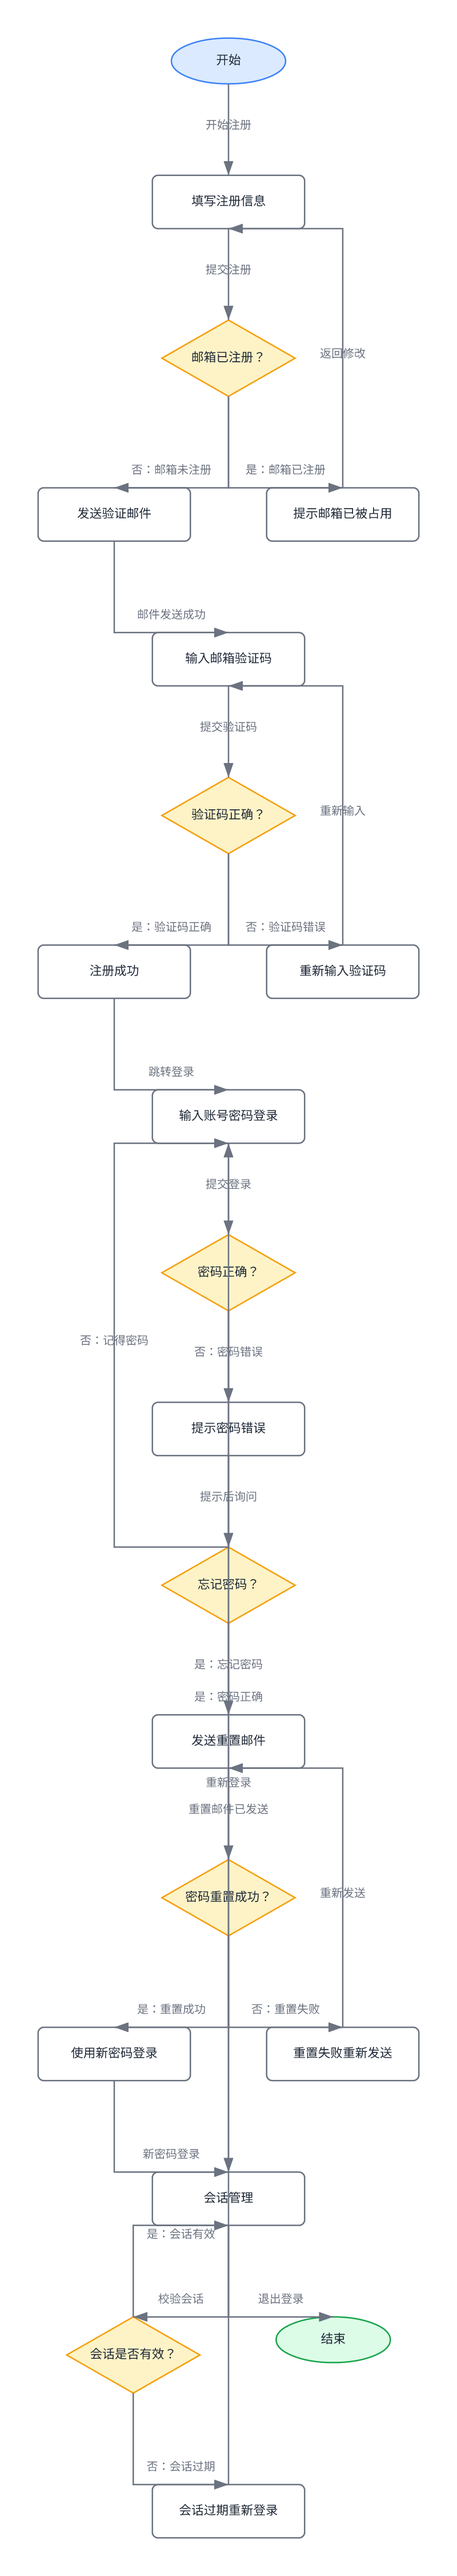
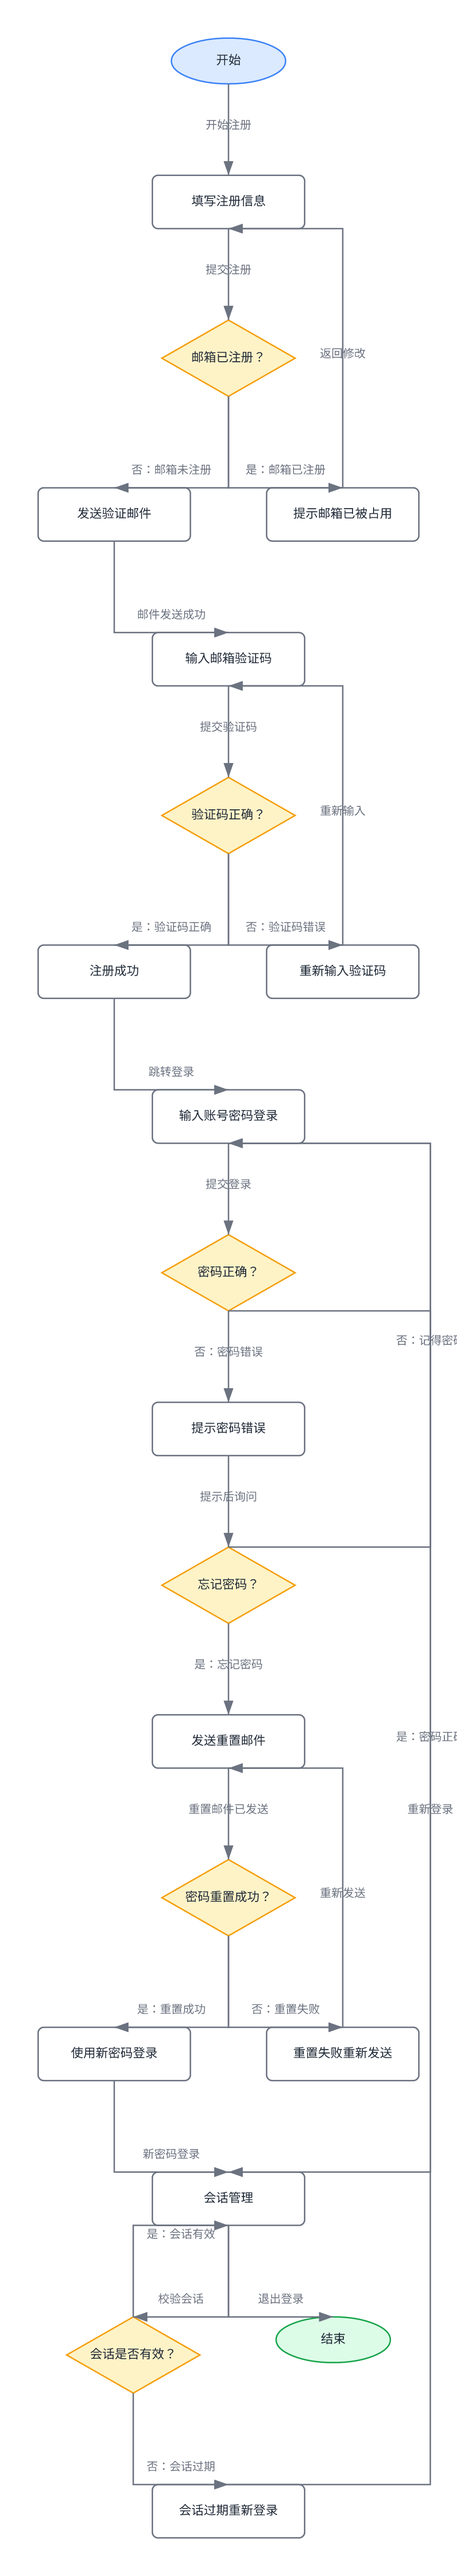
fix(render): 消除第三方节点穿越+扩大矩形路由通道/行候选
- 候选评分新增 crossHit：路径切穿第三人节点/分组 = -5e5（比贴边更严重），
  避免'出口面切换'把贴边换成更糟的穿节点。
- pathClearanceInterior 对贴自家节点边框的腿强制归零，不再给它钳到 1000
  而恒压过真正绕行的干净路径。
- routeRectilinear 的通道/行候选扩到每个障碍物左右/上下壁之外，使下落列
  能绕开处在路径上的中间节点。

效果：第三方节点穿越清零（flowchart-auth 2→0、microservices 1→0、通用
无新增），架构图保持 0 贴边。测试全绿。

diff --git a/packages/render/src/index.ts b/packages/render/src/index.ts
@@ -1018,15 +1018,19 @@ function renderGeneral(doc: LgdlDocument, layout: LayoutResult, mode: 'default' 
     const candidateB = buildEdgePath(pts, srcNode, dstNode, srcKind, dstKind, 'local', routeBoxes, scoreBoxes);
     const score = (p: { x: number; y: number }[]): number => {
       const ownHit = pathHitsOwnBody(p, srcNode, dstNode) ? -1e6 : 0;
-      // `pathClearanceInterior` is Infinity for a two-point path (no interior legs
-      // to score); clamp so bends / border-ride penalties below actually matter.
-      const clear = Math.min(pathClearanceInterior(p, scoreBoxes), 1000);
-      const bends = (p.length - 2) * 20;
-      // A leg riding flush along the edge's OWN node border is the "贴边" defect:
-      // heavily penalize so the perpendicular-exit alternative (local face) wins.
-      // `pathBorderRides` already weights source rides (400) over dest rides (150).
+      // A path that slices through a THIRD-PARTY node/group is worse than a mild
+      // border ride: penalize it heavily so the border-riding alternative wins
+      // rather than a crossing one.
+      const crossHit = pathCrosses(p, routeBoxes) ? -5e5 : 0;
+      // `pathClearanceInterior` is Infinity for a path with no scoreable interior
+      // leg (a plain 2/3-point elbow), which would let a border-riding path clamp
+      // to 1000 and always win. So: if any leg hugs/rides its OWN node border,
+      // the clearance contribution is forced to 0 (a border-riding leg is, by
+      // definition, ~0px from a wall), so it can't out-score a clean path.
       const rides = pathBorderRides(p, srcNode, dstNode);
-      return ownHit + clear - bends - rides;
+      const clear = rides > 0 ? 0 : Math.min(pathClearanceInterior(p, scoreBoxes), 1000);
+      const bends = (p.length - 2) * 20;
+      return ownHit + crossHit + clear - bends - rides;
     };
     const ortho = score(candidateB) > score(candidateA) ? candidateB : candidateA;
     const d = ortho
@@ -1268,9 +1272,19 @@ function routeRectilinear(
   const midY = Math.round((src.y + dst.y) / 2);
   for (const c of [midX, src.x, dst.x]) channels.push(c);
   for (let k = 20; k <= 120; k += 20) channels.push(midX - k, midX + k, src.x - k, src.x + k, dst.x - k, dst.x + k);
+  // Also expose columns just outside every obstacle's left/right walls so the
+  // route can dodge a blocker that sits in the drop's path (e.g. app->mq would
+  // otherwise keep dropping on a column that slices a third-party node).
+  for (const b of boxes) {
+    channels.push(Math.round(b.x - 12), Math.round(b.x + b.w + 12));
+  }
   const rows: number[] = [];
   for (const c of [midY, src.y, dst.y]) rows.push(c);
   for (let k = 20; k <= 120; k += 20) rows.push(midY - k, midY + k, src.y - k, src.y + k, dst.y - k, dst.y + k);
+  // rows just outside every obstacle's top/bottom walls
+  for (const b of boxes) {
+    rows.push(Math.round(b.y - 12), Math.round(b.y + b.h + 12));
+  }
 
   const candidates: { x: number; y: number }[][] = [];
   candidates.push([src, dst]); // straight (only valid if already aligned — filtered below)
